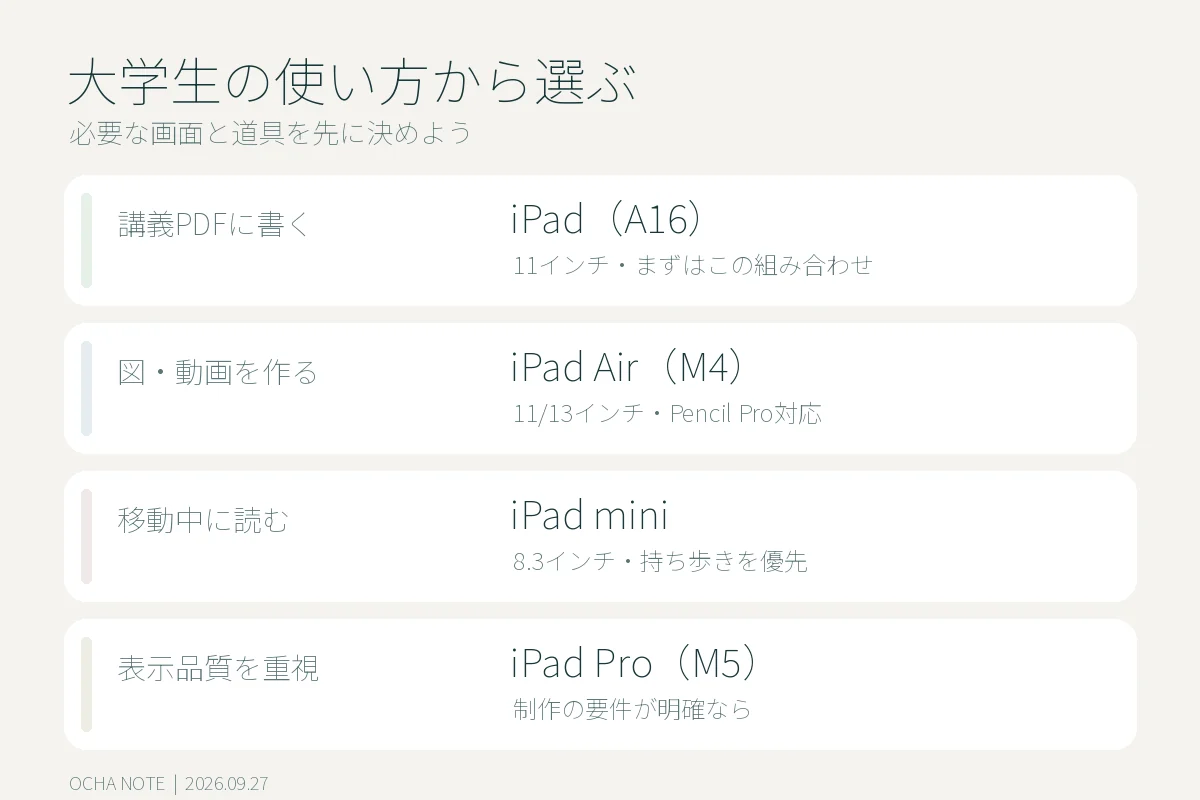
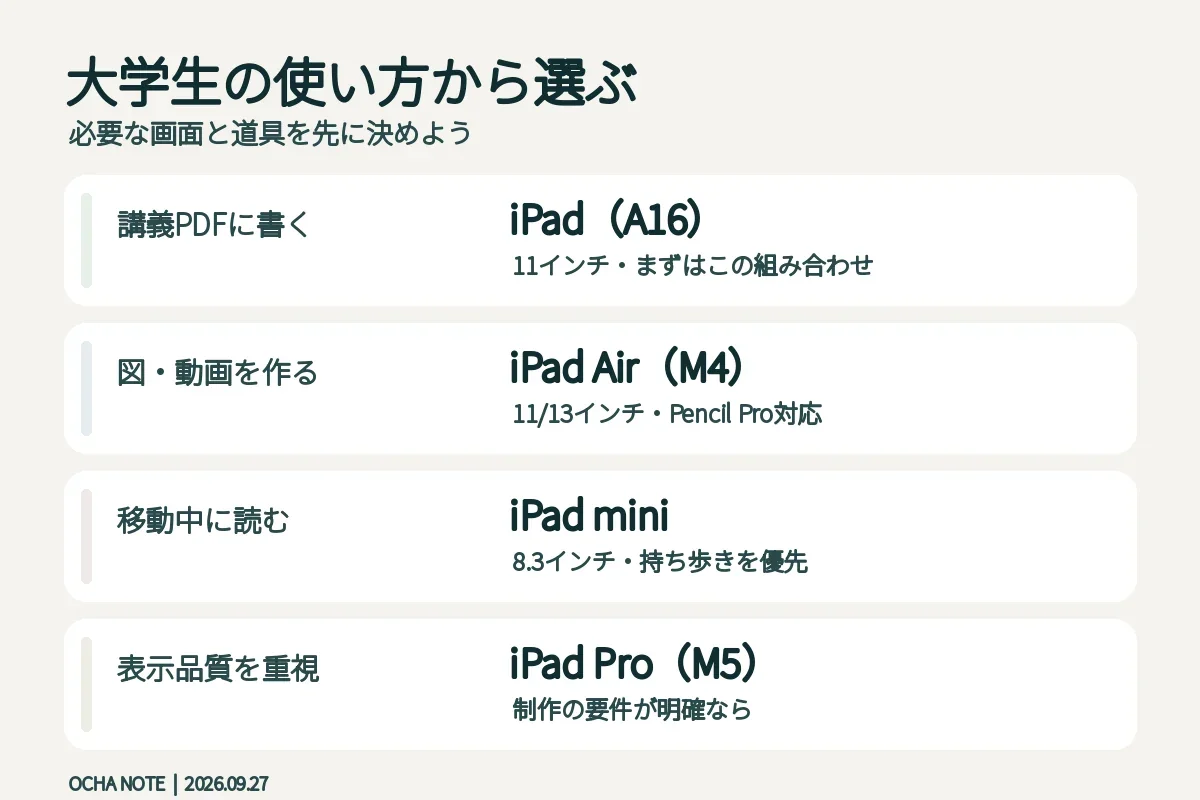
Replace iPad article cover and diagram with user-provided images
Converted the supplied PNGs to webp (same 1200x630 / 1200x800 sizes)
and updated the cover alt text to mark the photo-like cover as an
illustrative image, not a product photo.

Claude-Session: https://claude.ai/code/session_01UehgFQnMPfWp5PckJtkQE5

diff --git a/src/content/articles/ipad-for-university-students-2026.md b/src/content/articles/ipad-for-university-students-2026.md
@@ -6,7 +6,7 @@ date: "2026-09-27"
 kind: "選び方"
 coverLabel: "CHOOSE."
 cover: "/images/ipad-for-university-students-2026/cover.webp"
-coverAlt: "講義ノートを開いたタブレットとペンの抽象的なイメージイラスト"
+coverAlt: "机に置いたタブレットとペンのイメージ画像（実際の製品写真ではありません）"
 draft: false
 affiliate: false
 ---
